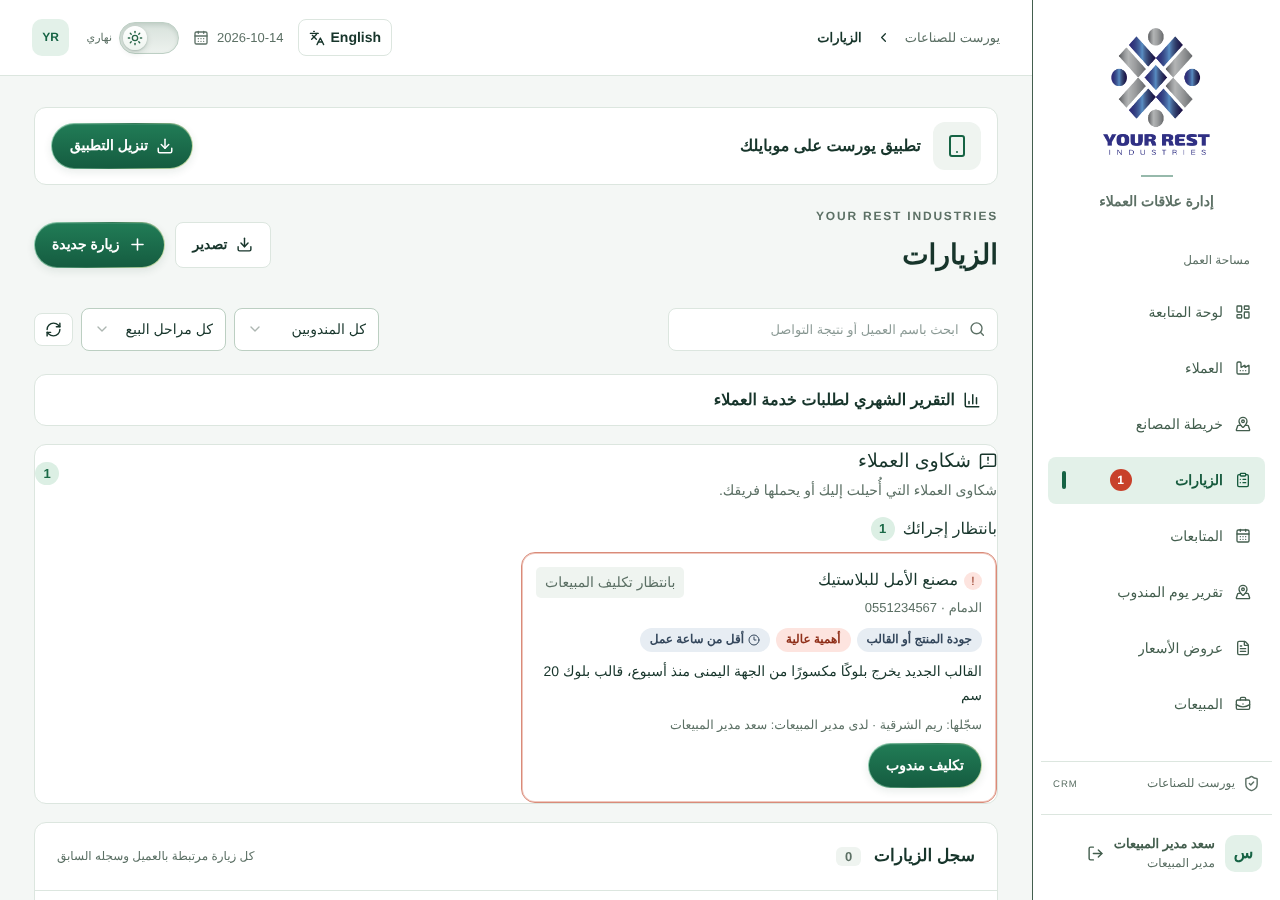
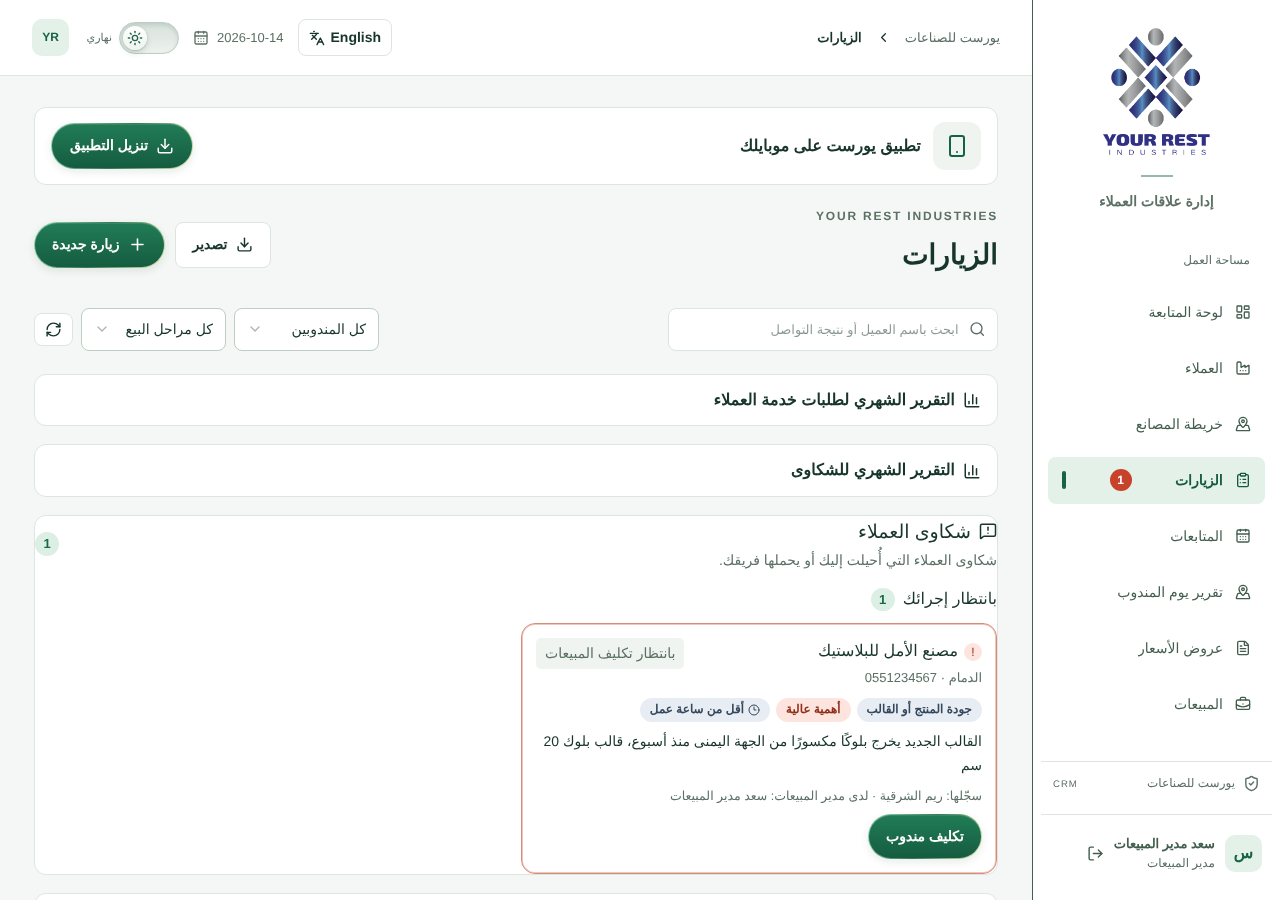
docs(qa): the complaints report release's report, verification record and screenshots; the browser-test count of the previous report corrected
Claude-Session: https://claude.ai/code/session_01DzqR1S77Rhpm1sPwf1Z4ac

diff --git a/docs/qa/REPORT-COMPLAINTS-REPORT-AR.md b/docs/qa/REPORT-COMPLAINTS-REPORT-AR.md
@@ -1,0 +1,101 @@
+# تقرير تنفيذ «التقرير الشهري للشكاوى» — Yourrest CRM (الإصدار الرابع في 2026-10-14)
+
[1 lines of base64/hex data omitted]
+
+## 1. الخلاصة
+
+- **ما نُفِّذ:** قسم مطوي «التقرير الشهري للشكاوى» أعلى صفحة «الشكاوى» لمدير خدمة العملاء ومدير النظام، وأعلى صفحة «الزيارات» لمدير المبيعات. يُجلب عند فتحه ويُختار منه الشهر. كل قارئ يرى أرقام الشكاوى التي يقرؤها أصلًا، وممثل الخدمة والمشرف والمندوب لا يرونه.
+- **ما فيه:** الشكاوى المسجّلة في الشهر والمفتوحة والمغلقة والملغاة، نسبة رضا العميل، المفتوحة المتأخرة الآن، العالية، العملاء بأكثر من شكوى؛ جداول بالتصنيف والوسيلة والمنطقة؛ الأهمية والحالة الحالية؛ ما عاد خطوة إلى الوراء؛ نتائج الحل والإغلاق؛ زمن كل مرحلة بساعات العمل مع الهدف وعدد ما تجاوزه.
+- **بلا ترحيل ولا كتابة:** المسار `GET /api/complaint-report` يقرأ فقط. القاعدة تبقى 16 ترحيلًا، والتراجع إعادة مجلد release القديم فقط. الحزمة باسم ومجلد ومُفعِّل مختلفة عن حزم اليوم الثلاث، وتحتوي كل ما فيها.
+- **الاختبارات:** TypeScript بلا أخطاء؛ ESLint 96 خطأ و72 تحذيرًا كما كانت قبل الإصدار ملفًا ملفًا ولا ملاحظة في الملفات الجديدة؛ البوابة الافتراضية 121/121 اختبارًا (12158 فحصًا) ومنها الجديدان `complaint-report` (30) و`complaint-report-ui` (26)؛ على النسخة المبنية 13/13 ومنها `complaint-report-http` (51) و`server-authorization` (345)؛ في المتصفح 14 من 18 ومنها `complaints-browser` (67) من أول مرة، و`service-queue-browser` بعد إعادة بسبب محدِّد في الاختبار نفسه صار يطابق قسمي التقريرين، و4 إخفاقات قائمة قبل هذا الإصدار بأسبابها نفسها؛ بروفة التحديث كاملة بخمس عشرة خطوة ناجحة بعد تصحيح افتراض في اختبار البروفة.
+- **لم يُجرَّب على هاتف حقيقي ولا على استضافة cPanel.** قارن أرقام شهر واحد بما تعرفه قبل الاعتماد عليها.
+
+## 2. القواعد التي نُفِّذت
+
+| البند | الحكم |
+|---|---|
+| من يراه | مدير النظام (الكل)، مدير خدمة العملاء (شكاوى الممثلين المرتبطين به وما أحاله وما لا مدير له)، مدير المبيعات (ما أُحيل إليه وما يحمله أي مندوب أو مشرف). الباقون 403 |
+| الشهر | بتاريخ التسجيل بتوقيت الرياض؛ الشكوى تُحسب في شهر تسجيلها بحالتها الآن. القائمة تعرض الأشهر التي فيها شكاوى يقرؤها القارئ، حتى 24 شهرًا، والشهر الجاري افتراضيًا |
+| الأرقام الرئيسية | الشكاوى، المفتوحة، المغلقة، الملغاة، نسبة رضا العميل (المغلقة بـ«العميل راضٍ» ÷ كل المغلقة، بلا الملغاة)، المفتوحة التي تجاوزت مهلة مرحلتها الآن، العالية، العملاء الذين لهم أكثر من شكوى في الشهر |
+| الجداول | بحسب التصنيف ووسيلة الوصول ومنطقة العميل: الشكاوى والمفتوح والمغلق والراضي ونسبة الرضا (شرطة حين لا مغلق)؛ الأكثر أولًا ثم بالاسم |
+| الحالة وما عاد | رقاقات الأهمية والحالة الحالية؛ وعدد ما أُعيد للتعديل أو أُعيد إلى المندوب أو أُعيد تكليفه أو أُعيد فتحه مرة على الأقل |
+| النتائج | الحل القائم الآن (حُلّت، جزئيًا، تعذر، تنازل) وإغلاق المغلقة (راضٍ، دون رضا، تنازل، تعذر الوصول) |
+| الأزمنة بساعات العمل | المراجعة: من آخر إرسال إلى الإحالة (هدف 4). التكليف: من الإحالة إلى التكليف (4). أول تواصل: من آخر تكليف أو تفويض أو إعادة تكليف سبق أول تواصل إلى ذلك التواصل (24). الحل: من آخر تكليف أو تفويض أو إعادة أو إعادة فتح سبق الحل القائم إليه (50). تأكيد الإغلاق: من الحل إلى الإغلاق (24). من التسجيل إلى الإغلاق بلا هدف. لكل مرحلة العدد والوسيط والمتوسط وعدد ما تجاوز الهدف؛ الملغاة بلا أزمنة |
+| المتأخرة الآن | المفتوحة التي مرحلتها الحالية متجاوزة هدفها وقت الطلب، بالقاعدة نفسها المستخدمة في بطاقات الشكاوى |
+| الخصوصية | أرقام مجمّعة فقط: لا اسم عميل ولا نص ولا اسم موظف ولا معرّف ولا مرجع؛ أسماء المناطق والتصنيفات فقط |
+| الجلب | عند فتح القسم أو اختيار شهر؛ لا تحديث في الخلفية ولا تخزين مؤقت |
+
+لم يتغير شيء في الشكاوى نفسها ولا في طلبات خدمة العملاء ولا تقريرها الشهري ولا المساندة ولا المستهدفات والتقييم ولا الصلاحيات.
+
+## 3. ما أُضيف
+
+| الملف | ما فيه |
+|---|---|
+| `lib/complaint-report.ts` | المنطق الخالص `complaintReport` و`complaintReportAllowed` |
+| `lib/report-timing.ts` | الوسيط والمتوسط والتجاوز ونسبة مئوية وشكل الشهر، مشتركة مع `lib/service-report.ts` الذي صار يستوردها |
+| `lib/complaint-rows.ts` | قراءة صفوف الشكاوى من `crm_records` (القائمة، الواحدة، الكل)، نُقلت إليه من مسار الشكاوى ليستخدمها المساران |
+| `app/api/complaint-report/route.ts` | `GET` بالشهر، 401 و403 و400، بلا تخزين مؤقت |
+| `app/complaint-report.tsx` | `ComplaintReportView` و`ComplaintReportSection` بأسلوب تقرير الطلبات نفسه وبأنماطه |
+| `app/crm-app.tsx` | القسم على صفحة «الشكاوى» وعلى «الزيارات» لمن لا صفحة شكاوى له |
+| `portable/activate-ui-refresh-update.cjs` | قبول نسخة اليوم التي أخذها مُفعِّل حزمة «الشكاوى» |
+| `scripts/rehearse-update.mjs` | قراءة التقرير بعد الشكوى في البروفة وفحص اختفاء مساره بعد التراجع |
+| `docs/UPDATE-2026-10-14-COMPLAINTS-REPORT-AR.txt` و`docs/CUSTOMER-SERVICE-WORKFLOW-AR.md` (10.7) و`docs/OPERATIONS-DEVELOPMENT-GUIDE-AR.md` (9-ز) و`docs/CHANGELOG-HISTORY.md` و`tests/CHECKS.md` | الدليل والوثائق |
+
+## 4. نتائج الاختبار
+
+| الاختبار | البوابة | النتيجة |
+|---|---|---|
+| `pnpm tsc --noEmit` | ثابتة | 0 أخطاء |
+| `pnpm eslint .` | ثابتة | 96 خطأ و72 تحذيرًا، مطابقة لما قبل الإصدار ملفًا ملفًا؛ لا ملاحظة في الملفات الجديدة |
+| البوابة الافتراضية `npm run check` | افتراضية | 121/121 اختبارًا (119 قبل الإصدار)، 12158 فحصًا |
+| `tests/complaint-report.mjs` (جديد) | افتراضية | 30 فحصًا: من يقرأ؛ أرقام شهر مُحسوبة يدويًا (الأعداد، التصنيفات، الوسائل، المناطق، الأهمية، الحالة، ما عاد خطوة إلى الوراء، النتائج، نسبة الرضا)؛ أزمنة المراحل بساعات العمل من آخر تكليف أو إعادة؛ المتأخرة الآن بساعة محقونة؛ الأشهر والشهر الفارغ؛ نطاق كل قارئ (مديرا خدمة عملاء ومديرا مبيعات وفرع آخر)؛ لا عملاء ولا نصوص ولا أسماء؛ الحقول المجمّعة فقط |
+| `tests/complaint-report-ui.mjs` (جديد) | افتراضية | 26 فحصًا: القسم للمخوَّلين فقط ومطويًا بلا تحميل، الأرقام الرئيسية بعناوينها، الجداول الأربعة صفًا صفًا، الرقاقات والنتائج، اختيار الشهر، الشهر الفارغ، الإنجليزية بلا بقايا عربية |
+| `tests/baseline-update-activation.mjs` | افتراضية | 119 فحصًا: حزمة رابعة في اليوم نفسه تعيد استخدام نسخة اليوم بعد أي من الحزم الثلاث السابقة |
+| `tests/complaint-report-http.mjs` (جديد) | النسخة المبنية | 51 فحصًا: 401 للمجهول و403 لممثل الخدمة والمشرف والمندوب برسالة، أرقام مدير النظام ونطاق كل مدير، لا تسرب، الشهر الافتراضي، سبعة أشهر غير صحيحة، القراءة لا تكتب شيئًا |
+| `tests/server-authorization.mjs` | النسخة المبنية | 345 فحصًا: المسار الجديد في قائمة 401 ومصفوفة الأدوار (مدير النظام ومديرا المبيعات ومدير خدمة العملاء 200، الباقون 403) |
+| باقي اختبارات النسخة المبنية (11) | النسخة المبنية | كلها نجحت من أول مرة، ومنها `complaints-http` (123) بعد نقل قارئ الصفوف و`service-report-http` (45) بعد نقل حساب الأزمنة |
+| `tests/complaints-browser.mjs` (موسَّع) | المتصفح | 67 فحصًا في Chromium حقيقي على النسخة المبنية: ما سبق، وممثل الخدمة بلا تقرير، ومدير الخدمة يفتح القسم فيعدّ شكاوى الشهر الجاري في نطاقه ويرى الجداول، ومدير المبيعات يفتحه على الزيارات ويرى الشكوى التي وصلته |
+| `tests/service-queue-browser.mjs` | المتصفح | أخفق في الدورة الكاملة لأن محدِّده `details.service-report` صار يطابق قسمي التقريرين على صفحة الزيارات لمدير المبيعات (في الاختبار لا في التطبيق)؛ صار يختار تقرير الطلبات وحده ونجح وحده على النسخة نفسها (99) |
+| باقي اختبارات المتصفح (16) | المتصفح | 12 نجحت في الدورة؛ 4 إخفاقات قائمة قبل هذا الإصدار بأسبابها نفسها: `app-browser-workflows` و`offline-browser` و`pwa-browser` (حدود Playwright في رفض الإذن والعمل دون اتصال) و`erp-sales-browser` (ملف Excel الأصلي غير موجود) |
+| البروفة `scripts/rehearse-update.mjs` | يدوية | 15/15 خطوة (القسم 6) |
+
+لقطة شاشة التقرير في `docs/qa/complaints-screenshots/complaints-report.png`.
+
+## 5. حزمة التحديث
+
+- أُنشئت بأداة التغليف نفسها: `--release-name update-complaints-report --release-date 20261014 --stage-name yourrest-crm-update-complaints-report-20261014 --helper-name yourrest-activate-update-complaints-report.cjs --schema-baseline 16 --verify-route /api/complaints=401 --verify-route /api/complaint-report=401`.
+- 2861 ملفًا في `release/`، كلها مطابقة لقائمة SHA-256 داخل الحزمة. لا إعدادات ولا قاعدة بيانات ولا مفاتيح ولا أرقام هواتف من بيانات البذر (206 أرقام فُحصت) ولا ملفات SQLite.
+- مقارنة بحزمة «الشكاوى» الصادرة اليوم: 2861 ملفًا قبل و2864 بعد؛ 28 أُضيفت و25 حُذفت (أسماء الحزم المبنية بتجزئتها، وملفا المسار الجديد وحساب الأزمنة في الخادم، والمُفعِّل باسمه الجديد) و20 تغيّرت (الحزم وفهارسها، دليل التحديث، فهرس الصدفة دون اتصال، ونسخة المُفعِّل داخل `operations`) و2816 لم تتغير. لا تغيير في `drizzle` ولا `node_modules`.
+- مجلد الإصدار لم يتغير بين التغليف وكل الاختبارات التي تلته.
+
+## 6. البروفة الكاملة (موقع مطابق للاستضافة، بحساب غير مميز، بيانات اصطناعية)
+
+- نُصّب إصدار «الشكاوى» الصادر اليوم (حزمة `Yourrest-CRM-Update-Complaints-20261014.zip`، SHA-256 يبدأ بـ`33657507`) على مجلد منزل مطابق للاستضافة، بحساب غير مميز لا يملك إلا ربط المنفذ 443، وأُنشئت بيانات اصطناعية عبر واجهته ثم اتُّبع دليل التحديث خطوة خطوة بالمُفعِّل المعبّأ.
+- الخطوات الخمس عشرة كلها نجحت: فك الحزمة في مجلد الدليل؛ `--check` والتطبيق يعمل؛ رفض التبديل ما دام التطبيق يعمل؛ الإيقاف والنسخ والتبديل مع تطابق البيانات والإعدادات والمشغّل والمرفقات بايتًا ببايت؛ التشغيل ثم `--verify` يطبع `MIGRATIONS: 16 / DATABASE: OK / CUSTOMER CODES: OK` و`LOGIN HTTP: 200 / ANONYMOUS CRM API: 401 / /api/complaints: 401 / /api/complaint-report: 401` و`PREVIOUS RECORD IDS: PRESERVED` و`DEPLOYMENT VERIFIED`؛ كل دور يرى السجلات والمبيعات والأداء والمرفق نفسها بعد التحديث؛ مسار الشكاوى كان في الإصدار السابق وبقي، ومسار التقرير ظهر وحده؛ شكوى كاملة على القاعدة المرقّاة للأدوار الصحيحة؛ **التقرير الشهري بعدها**: المجهول 401، والمندوب والمشرف وممثل الخدمة 403، ومدير خدمة العملاء يرى شكوى واحدة مغلقة بـ«العميل راضٍ» ونسبة 100% وزمنَي مراجعة وإغلاق، ومدير المبيعات يراها بتصنيفها، ولا اسم عميل ولا نص ولا معرّف في الناتج؛ سلوك سطر الأوامر؛ التراجع بعد الاستخدام بإعادة مجلد `release` وحده فيعود إصدار «الشكاوى» ويخدم كل الأدوار من القاعدة نفسها ويعرض الشكوى المغلقة لمدير الخدمة ويبقى مسار التقرير 404؛ التراجع قبل أول تشغيل؛ ورفض حزمة معبوث بها.
+- أول تشغيل توقف عند خطوة «ما يجب أن يتغير تغيّر» لأن اختبار البروفة كان يفترض أن كل مسار تعلنه الحزمة جديد على الإصدار السابق، ومسار الشكاوى موجود فيه أصلًا (خطأ في الاختبار لا في الحزمة)؛ صُحّح الاختبار ليميّز المسار المنقول من المسار الجديد (commit `8fa0491`) وأُعيدت البروفة كاملة.
+- المدة نحو دقيقتين ونصف. لا بيانات إنتاج ولا وصول إلى الاستضافة.
+
+## 7. تطبيق أندرويد
+
+لا تغيير. يبقى 1.0.10 / code 11 على الموقع، و1.0.11 في المصدر بانتظار بنائه وتوقيعه بمفتاح الشركة.
+
+## 8. الحدود والمخاطر
+
+1. التقرير يقرأ كل صفوف الشكاوى عند فتحه؛ أعدادها صغيرة اليوم، وإن كثرت على مدى سنوات يُحدّ بالأشهر الأخيرة.
+2. لا تحديث تلقائي: أعد فتح القسم أو اختر الشهر ثانية.
+3. نطاق مدير المبيعات في القراءة يشمل ما يحمله أي مندوب أو مشرف (كما في الشكاوى والطلبات)، فتقريره يحوي شكاوى كلّف بها مدير مبيعات آخر بعد تكليفها.
+4. الأزمنة تُقاس من آخر تكليف أو إعادة، فشكوى أُعيدت إلى المندوب ثم حُلّت يُحسب حلها من الإعادة لا من أول تكليف؛ «من التسجيل إلى الإغلاق» يعطي الصورة الكاملة.
+5. لا تصدير ولا طباعة للتقرير في هذا الإصدار.
+6. لم يُجرَّب على هاتف حقيقي ولا على cPanel.
+
+## 9. التسليم (الـ commits)
+
+| commit | المحتوى |
+|---|---|
+| `21be566` | المنطق الخالص `lib/complaint-report.ts` والمسار وقارئ الصفوف المشترك وحساب الأزمنة المشترك، واختبارا الوحدة وHTTP ومصفوفة الصلاحيات |
+| `a6c8902` | القسم على صفحة «الشكاوى» وعلى «الزيارات»، واختبار الواجهة وامتداد اختبار المتصفح |
+| `6d806eb` | المُفعِّل: قبول نسخة اليوم من حزمة «الشكاوى» واختباره، وقراءة التقرير في البروفة |
+| `42b6741` | الدليل والوثائق |
+| `eafbe64` | الملفات المولَّدة |
+| `8fa0491` | تصحيح اختبار البروفة (المسار المنقول من حزمة سابقة)؛ لا تغيير في التطبيق |
+| الأخير | هذا التقرير وسجل التحقق ولقطة الشاشة |

diff --git a/docs/qa/REPORT-COMPLAINTS-AR.md b/docs/qa/REPORT-COMPLAINTS-AR.md
@@ -8,7 +8,7 @@
 - **ما نُفِّذ:** ممثل خدمة العملاء يسجّل الشكوى في تقرير من صفحة «الشكاوى» الجديدة؛ مديره يراجعها ويحيلها إلى مدير المبيعات أو يعيدها للتعديل؛ مدير المبيعات يكلّف مندوبًا من لوحة على «الزيارات» والمندوب الحالي للعميل مقترح أولًا؛ المندوب يسجّل تواصلاته داخل الشكوى ثم الحل؛ خدمة العملاء تتأكد من العميل وتغلقها أو تعيدها إلى المندوب؛ إعادة فتح خلال 14 يومًا. مهل بساعات العمل وعلامة «متأخر» وعدّاد لمن ينتظره إجراء، وتبويب «الشكاوى» في ورقة العميل.
 - **حزمة واحدة بلا ترحيل:** الشكوى سجل من نوع `complaint` في `crm_records` بلا أب. القاعدة تبقى 16 ترحيلًا، والتراجع إعادة مجلد release القديم فقط. الحزمة باسم ومجلد ومُفعِّل مختلفة عن حزمتي اليوم، وتحتوي أيضًا تحديث «موقع آخر لعميل جديد».
 - **القرارات الثمانية نُفِّذت كما أجبت:** الإغلاق بخطوتين، المهل المقترحة، لا مرفقات، صفحة مستقلة للخدمة ولوحة على الزيارات للمبيعات، تحديثات داخل الشكوى، التسجيل للخدمة فقط، التقرير الشهري في إصدار تالٍ، أكثر من شكوى مفتوحة للعميل مع تنبيه.
-- **الاختبارات:** TypeScript بلا أخطاء؛ ESLint 96 خطأ و72 تحذيرًا كما كانت قبل الإصدار ملفًا ملفًا ولا ملاحظة في الملفات الجديدة؛ البوابة الافتراضية 119/119 اختبارًا (12084 فحصًا) ومنها الجديدان `complaints` (81) و`complaints-ui` (49)؛ على النسخة المبنية 11/11 ومنها `complaints-http` (123) و`server-authorization` (335)، مع إعادة واحدة لاختبار الحمل بعد انقطاع اتصال عابر؛ في المتصفح 15 من 19 ومنها `complaints-browser` (60) بعد إعادة بسبب خطأ في الاختبار نفسه، و4 إخفاقات قائمة قبل هذا الإصدار بأسبابها نفسها؛ بروفة التحديث كاملة بأربع عشرة خطوة ناجحة.
+- **الاختبارات:** TypeScript بلا أخطاء؛ ESLint 96 خطأ و72 تحذيرًا كما كانت قبل الإصدار ملفًا ملفًا ولا ملاحظة في الملفات الجديدة؛ البوابة الافتراضية 119/119 اختبارًا (12084 فحصًا) ومنها الجديدان `complaints` (81) و`complaints-ui` (49)؛ على النسخة المبنية 11/11 ومنها `complaints-http` (123) و`server-authorization` (335)، مع إعادة واحدة لاختبار الحمل بعد انقطاع اتصال عابر؛ في المتصفح 14 من 18 ومنها `complaints-browser` (60) بعد إعادة بسبب خطأ في الاختبار نفسه، و4 إخفاقات قائمة قبل هذا الإصدار بأسبابها نفسها؛ بروفة التحديث كاملة بأربع عشرة خطوة ناجحة.
 - **لم يُجرَّب على هاتف حقيقي ولا على استضافة cPanel.** اختبر على شكوى واحدة حقيقية قبل التعميم.
 
 ## 2. القواعد التي نُفِّذت
@@ -60,7 +60,7 @@
 | `tests/server-authorization.mjs` | النسخة المبنية | 335 فحصًا: المسار الجديد في قائمة 401 ومصفوفة الأدوار |
 | باقي اختبارات النسخة المبنية (9) | النسخة المبنية | كلها نجحت؛ اختبار الحمل `production-load` أخفق في الدورة الكاملة بانقطاع اتصال عابر على مقبس مُعاد استخدامه (ECONNRESET) ونجح وحده على النسخة نفسها، ولا كود من التطبيق في نقل هذا الاختبار |
 | `tests/complaints-browser.mjs` (جديد) | المتصفح | 60 فحصًا في Chromium حقيقي على النسخة المبنية: التسجيل، الإعادة والتصحيح، الإحالة، التكليف من لوحة الزيارات بالمندوب المقترح، المندوب في محاكي تطبيق أندرويد مع عدّاد الزيارات، التواصل والحل، الإغلاق، علامة التأخر، ورقة العميل، الإنجليزية. أخفق في الدورة الكاملة لأن الاختبار بحث عن زر كان قد حُذف من القائمة (خطأ في الاختبار لا في التطبيق)؛ صُحّح ونجح وحده على النسخة نفسها |
-| باقي اختبارات المتصفح (18) | المتصفح | 13 نجحت في الدورة؛ `competitor-intelligence-browser` أخفق بسباق في عدّ تبويبات الشريط السفلي بعد إعادة التحميل، فعُدّل مساعد التنقل المشترك في الاختبارات (اختبار فقط) ونجح وحده (146)؛ 4 إخفاقات قائمة قبل هذا الإصدار بأسبابها نفسها: `app-browser-workflows` و`offline-browser` و`pwa-browser` (حدود Playwright في رفض الإذن والعمل دون اتصال) و`erp-sales-browser` (ملف Excel الأصلي غير موجود) |
+| باقي اختبارات المتصفح (17) | المتصفح | 12 نجحت في الدورة؛ `competitor-intelligence-browser` أخفق بسباق في عدّ تبويبات الشريط السفلي بعد إعادة التحميل، فعُدّل مساعد التنقل المشترك في الاختبارات (اختبار فقط) ونجح وحده (146)؛ 4 إخفاقات قائمة قبل هذا الإصدار بأسبابها نفسها: `app-browser-workflows` و`offline-browser` و`pwa-browser` (حدود Playwright في رفض الإذن والعمل دون اتصال) و`erp-sales-browser` (ملف Excel الأصلي غير موجود) |
 | البروفة `scripts/rehearse-update.mjs` | يدوية | 14/14 خطوة (القسم 6) |
 
 لقطات شاشة الاختبار في `docs/qa/complaints-screenshots/`.
